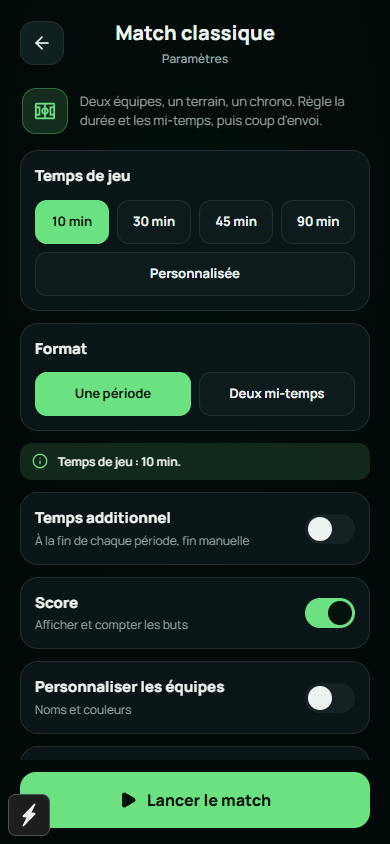
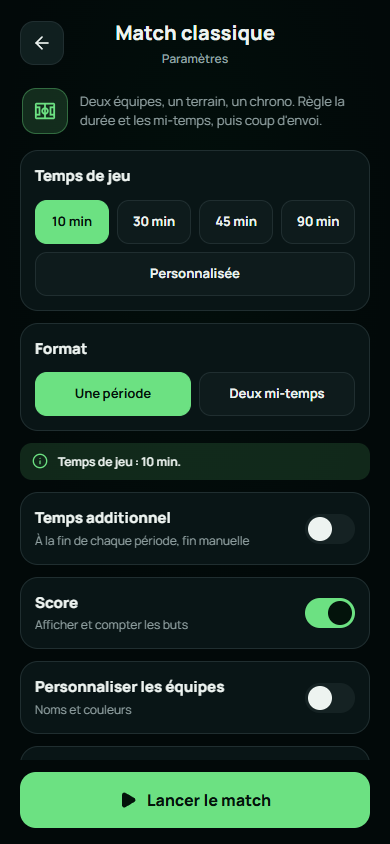
fix: retain Maracana summary navigation and complete browser acceptance

Changed region(s): [[0.0, 0.9242, 0.1538, 1.0]]

diff --git a/frontend/app/live.tsx b/frontend/app/live.tsx
@@ -35,8 +35,14 @@ export default function LiveScreen() {
   useAppearance();
   const mode=useStore(s=>s.session?.mode);
   const id=useStore(s=>s.session?.id);
-  if(mode==="cup"||mode==="survie")return <LovableTournamentFlow key={id}/>;
-  return mode==="classique"||mode==="maracana"?<LovableMatchScreen/>:<LegacyLiveScreen/>;
+  // Archiving clears the active session before navigation settles. Keep the
+  // current renderer so a newly mounted legacy screen cannot redirect home
+  // over the requested summary route.
+  const [previous, setPrevious] = useState({ mode, id });
+  if (mode && (mode !== previous.mode || id !== previous.id)) setPrevious({ mode, id });
+  const shown = mode ?? previous.mode;
+  if(shown==="cup"||shown==="survie")return <LovableTournamentFlow key={id ?? previous.id}/>;
+  return shown==="classique"||shown==="maracana"?<LovableMatchScreen/>:<LegacyLiveScreen/>;
 }
 function LegacyLiveScreen() {
   const styles = useStyles();

diff --git a/docs/maquette-fusion/retouches/rapport.md b/docs/maquette-fusion/retouches/rapport.md
@@ -1,4 +1,4 @@
-# Retouches PR #32 — travail en cours
+# Retouches PR #32 — recette et corrections
 
 Base distante vérifiée le 14 novembre 2026 par le connecteur GitHub et `git fetch` :
 `4f9afa41d7d92fc9ade5f18350280a37e80ddb8e`, branche
@@ -15,6 +15,9 @@ Base distante vérifiée le 14 novembre 2026 par le connecteur GitHub et `git fe
 - Rotation Maracana : résultat dans sa carte, rôles des équipes puis prochain duel.
   Action manuelle toujours reliée à `launchNext`, suivie de la lecture explicite.
 - Fin de Maracana reliée au résumé archivé et au partage calculé par `buildSummary`.
+  La recette a révélé une redirection concurrente vers l'accueil lors de
+  l'archivage : le composant de route conserve maintenant son écran pendant
+  la navigation vers le résumé, au lieu de monter le mode historique de secours.
 - Ballon extrait des tracés vectoriels de la première page du PDF validé : mêmes
   panneaux pour le composant et les assets. Rayon/texte : 0,132 pour le mot complet,
   0,16 pour l'icône ; Manrope ExtraBold, espacement naturel. Assets régénérés.
@@ -36,20 +39,63 @@ Typecheck et ESLint (`app`, `src`) repassés après les derniers changements : z
 erreur, commandes terminées avec le code 0. Syntaxe des scripts navigateur et de
 génération des assets également vérifiée.
 
-Nouvelle suite `reproduction/browser.cjs` ajoutée à la CI : parcours neuf, correction
-de but, carrousel circulaire et temps écoulé conservés via Paramètres, pause,
-verrouillage, deux thèmes, petits écrans/paysage, partage et trois politiques de
-lancement Maracana. **Cette suite n'est pas encore validée.** Sa première exécution
-s'est arrêtée sur une attente de sélection qui omettait `aria-current` ; cette
-attente a été corrigée. La relance n'a pas été exécutée : le contrôle automatique
-d'autorisation a atteint sa limite d'utilisation.
+Nouvelle suite `reproduction/browser.cjs` ajoutée à la CI. Les cinq parcours ont
+passé dans Chrome, sans erreur JavaScript :
 
-Les captures actuellement présentes sont intermédiaires ; le fichier `FAILED-*`
-documente cet arrêt de test, pas une validation du match. Il reste à rejouer la
-nouvelle suite, les suites navigateur du dépôt, Expo Doctor et les exports des
-trois plateformes, puis à inspecter et remplacer les captures finales.
+1. Nouvel utilisateur, match simple, ajout puis retrait d'un but en un appui.
+   Retour des paramètres avec vue circulaire et affichage du temps écoulé.
+   Le même nœud d'écran reste monté ; chrono 18 → 25 s pendant les paramètres,
+   score, phase et horodatage de départ identiques. Passage sombre → clair →
+   sombre → clair, pause conservée à 25 s, verrouillage des commandes vérifié.
+2. Maracana manuel sombre : résultat, équipes restée/sortie/entrée et prochain
+   duel vérifiés contre le moteur. Prochain match prêt, encore arrêté après
+   11 s ; seule la lecture lance le chrono. Deux matchs archivés et partagés.
+3. Même parcours Maracana en clair.
+4. Lancement automatique : le match suivant démarre automatiquement.
+5. Lancement différé : le match suivant démarre à 30 s, pas à 29 s.
 
-**Aucun commit de ces retouches publié à ce stade. Aucun merge ni build natif.**
+Les résumés sont comparés au texte réellement copié dans le presse-papiers,
+après normalisation CRLF/LF de Windows. `navigator.share` est désactivé dans ce
+test uniquement pour exercer le repli navigateur ; aucune validation de feuille
+native n'est revendiquée.
+
+Les suites V0 finale (21 scénarios) et recette 2 (16) passent. Les boutons de durée
+sont testés avec un appui de 50 ms et une attente explicite de l'état sélectionné
+sur le bouton courant, sans délai fixe après le clic. L'ancien test utilisait un
+clic instantané puis lisait immédiatement l'état. Les attentes du carrousel
+lisent `aria-current` et les mesures paysage attendent la disposition effective.
+
+Expo Doctor : **20/20**. Exports JavaScript web, Android et iOS : réussis.
+Le contrôle de rendu des cinq modes passe ses **78 cas**, sans erreur JavaScript
+ni attribut SVG invalide (avertissement web connu sur le pilote natif d'Animated).
+Les autres suites passent également : 41 scénarios fonctionnels (alertes,
+carrousel dont Musique, commandes et reprise), 36 vérifications audio et
+10 parcours de focus/édition/rotation. Total navigateur : **207 scénarios**,
+dont les cinq nouveaux parcours. Vérification finale terminée le 15 novembre 2026.
+
+## Captures finales
+
+Captures dans `captures/`, prises à 390 × 844, 320 × 568 et 844 × 390 :
+
+| Écran | Sombre | Clair |
+| --- | --- | --- |
+| Accueil | [capture](captures/accueil-sombre.png) | [capture](captures/accueil-clair.png) |
+| Chrono circulaire | [capture](captures/match-circulaire-sombre.png) | [capture](captures/match-circulaire-clair.png) |
+| Petit écran | [capture](captures/match-petit-ecran-sombre.png) | [capture](captures/match-petit-ecran-clair.png) |
+| Paysage | [capture](captures/match-paysage-sombre.png) | [capture](captures/match-paysage-clair.png) |
+| Rotation | [capture](captures/rotation-sombre.png) | [capture](captures/rotation-clair.png) |
+| Résumé Maracana | [capture](captures/fin-maracana-sombre.png) | [capture](captures/fin-maracana-clair.png) |
+
+Aussi : [introduction](captures/introduction.png),
+[configuration](captures/configuration-sombre.png),
+[paramètres](captures/parametres-clair.png),
+[résultat classique](captures/fin-classique-clair.png).
+Les captures d'échecs intermédiaires ont été retirées du dossier livré.
+
+Premier commit local de conservation : `5617b46`. Les corrections de recette et
+les captures finales sont publiées à sa suite sur la même branche de la PR #32.
+Le résultat de la CI du dernier commit est consultable sur la PR ; il est distinct
+des contrôles locaux ci-dessus. Aucun merge ni build natif.
 
 ## Téléphone
 

diff --git a/docs/maquette-fusion/rapport.md b/docs/maquette-fusion/rapport.md
@@ -1,5 +1,9 @@
 # Maquette fusionnée Lovable / Krono — thème clair, logo, accueil
 
+> Suite de la PR #32 : voir le [rapport des retouches et de la recette](retouches/rapport.md)
+> pour la correction du thème sans remontage, les cartes de score, le logo vérifié
+> sur le PDF et les captures finales. Le présent document conserve le bilan initial.
+
 Branche `claude/roundr-maquette-fusion`, basée sur `main` (`bcdeb90`). Les
 retouches de `docs/v0-polish-final/rapport.md` sont conservées (chrono qui occupe
 la hauteur libre, retours visuels, tutoiement). Aucune règle métier, aucun
